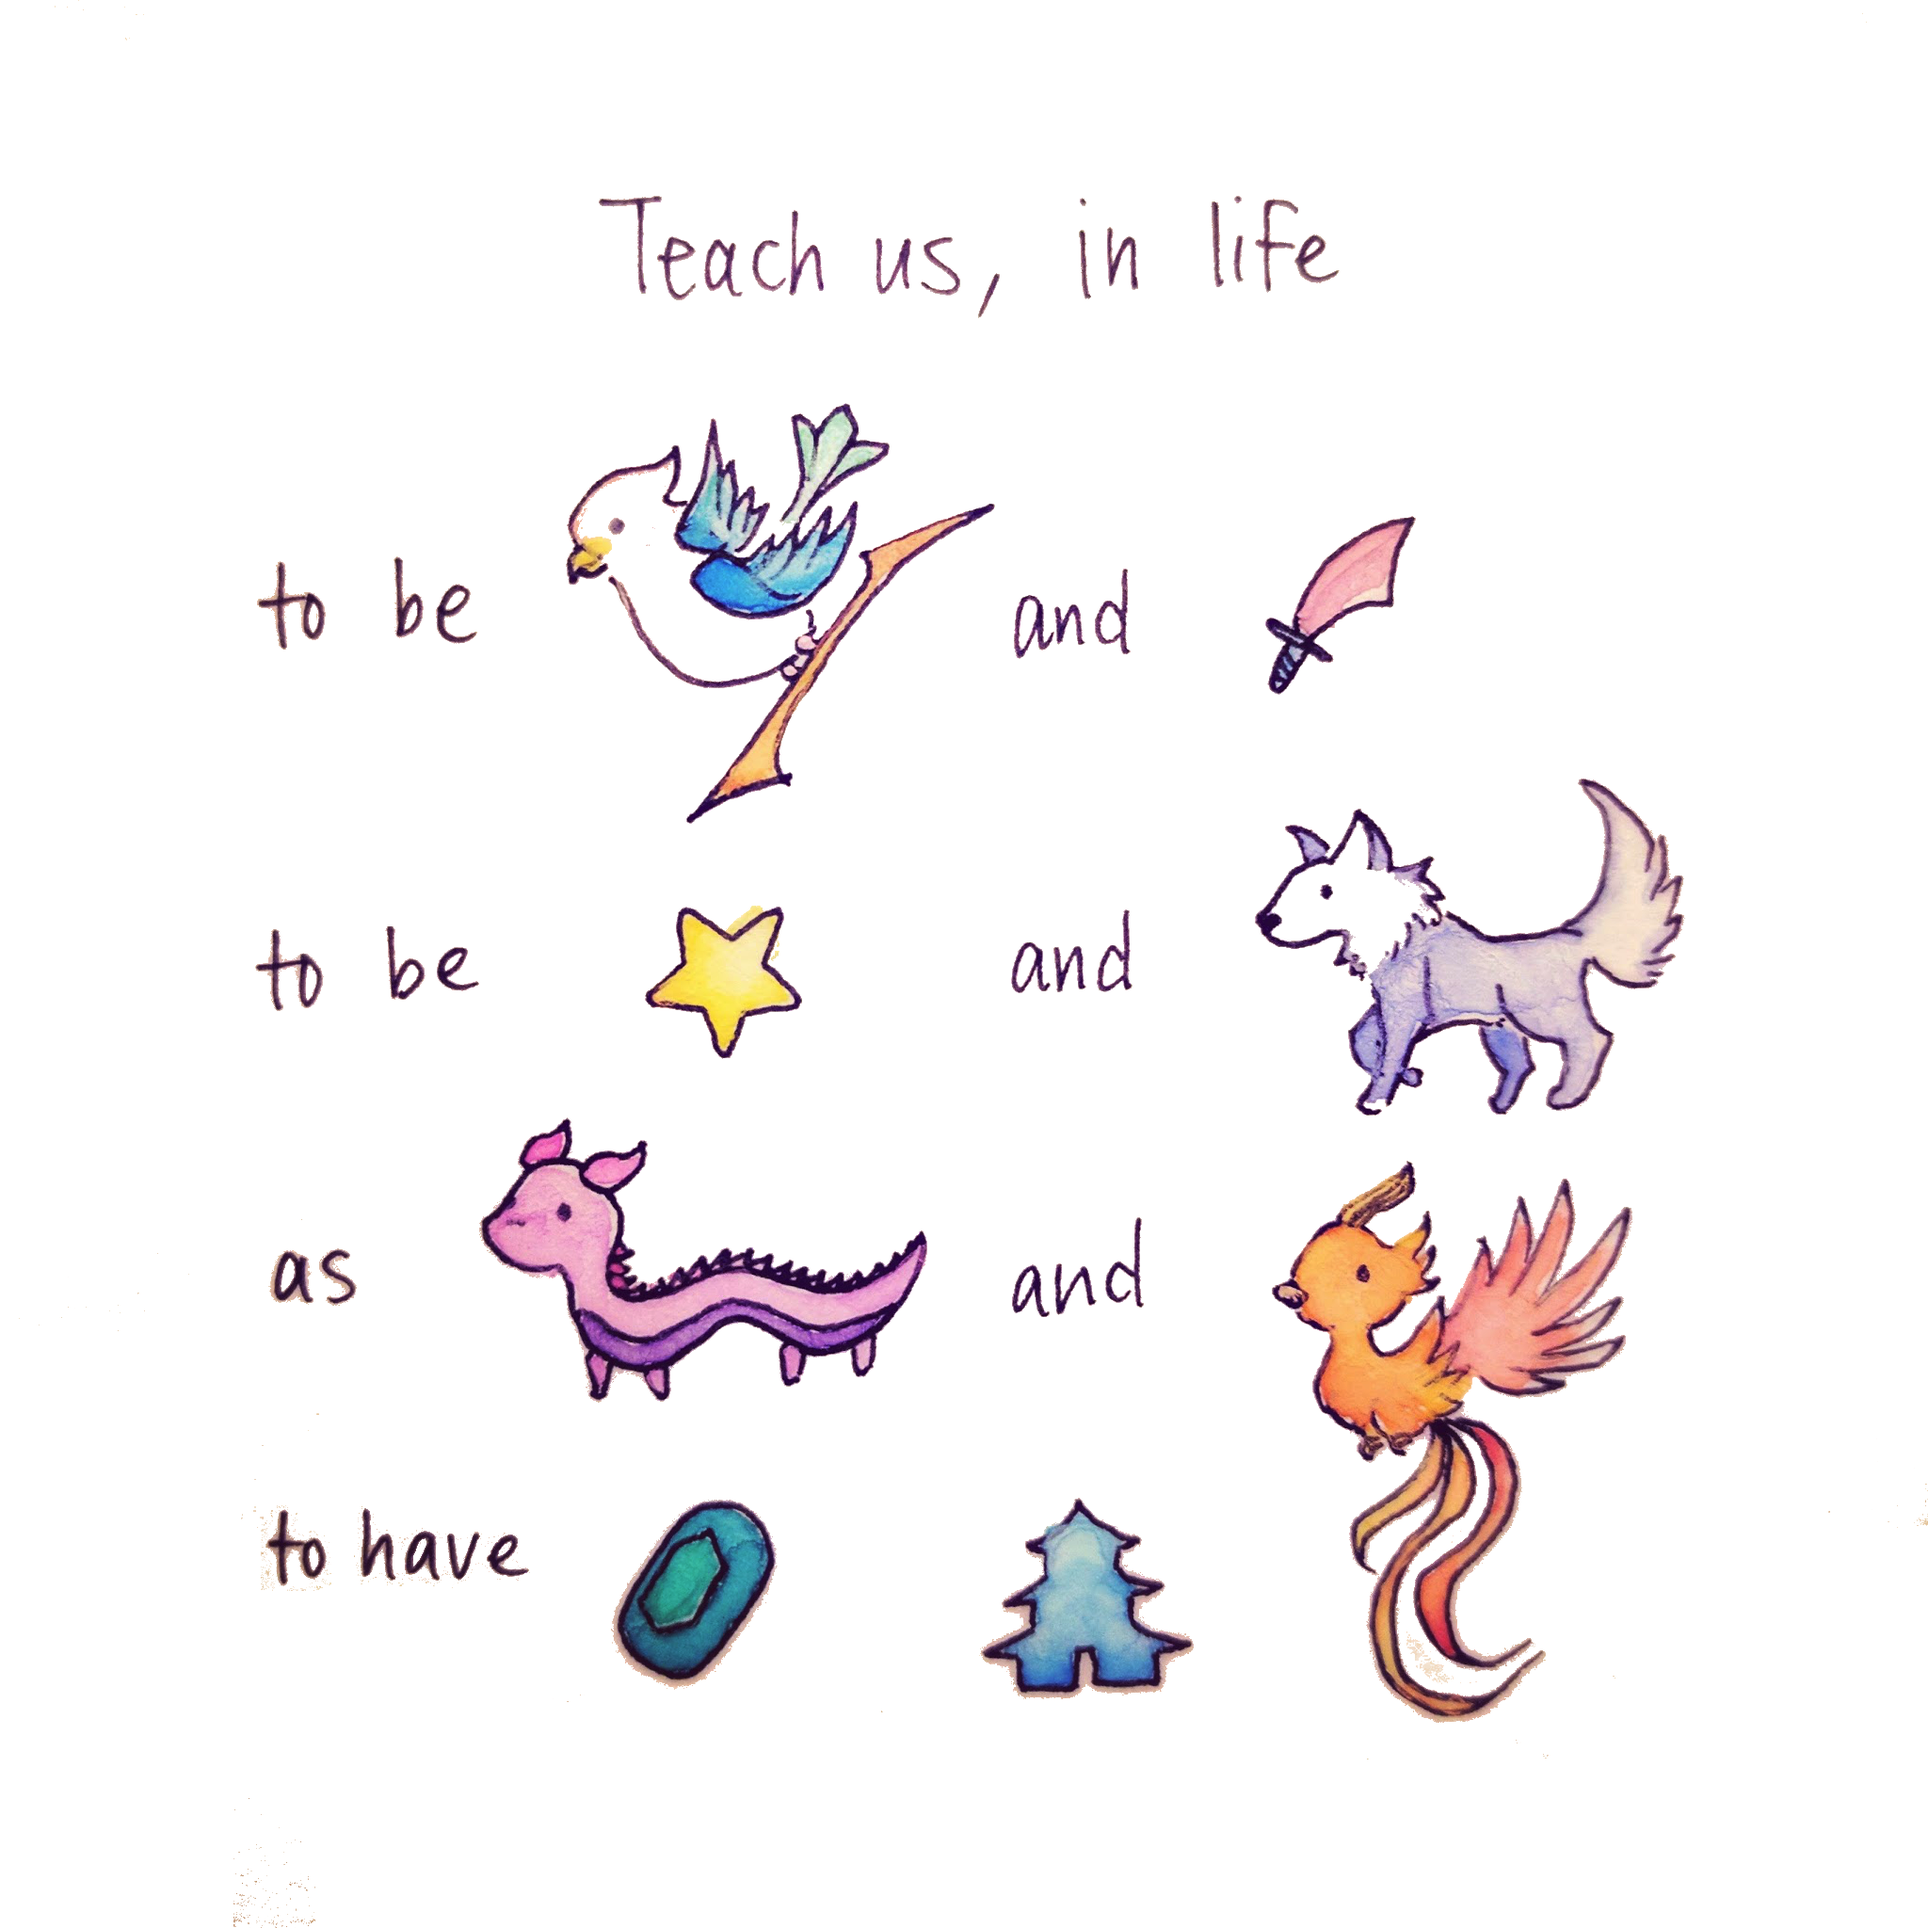
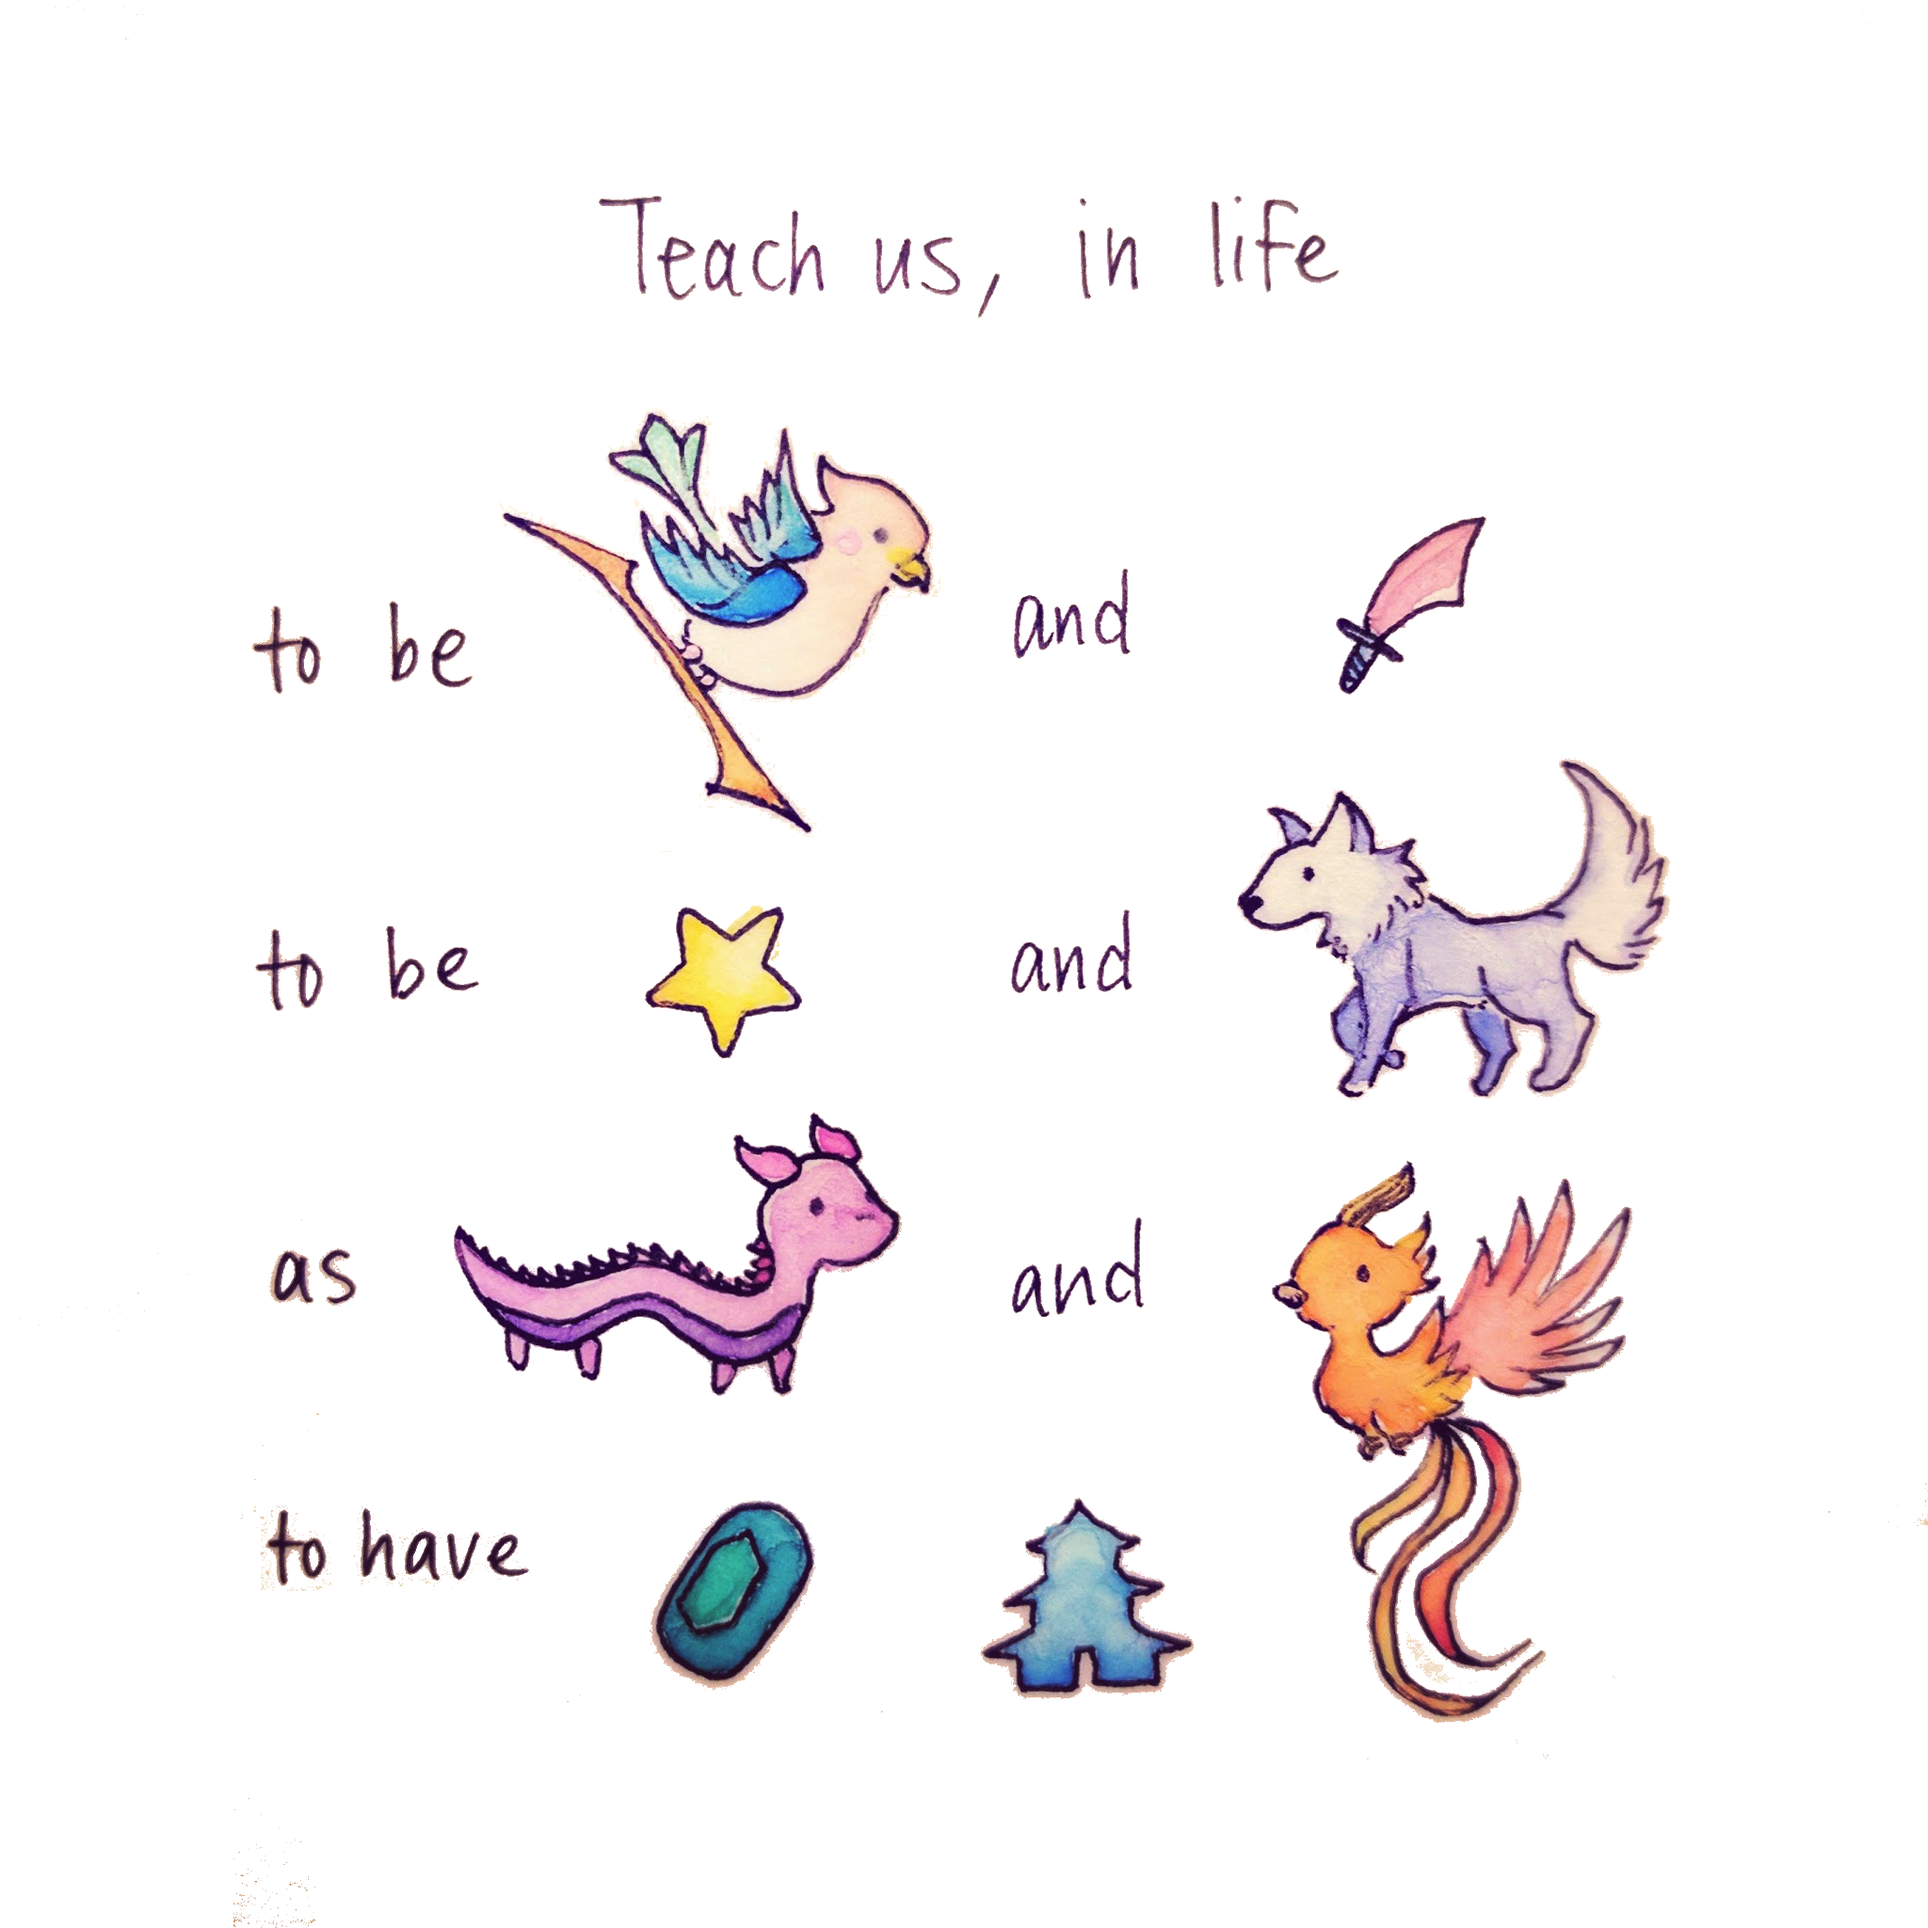
paintbrush pixlr ing

diff --git a/poemart.html b/poemart.html
@@ -16,7 +16,7 @@
       </span>
     </h1>
     
-        <img style="width: 800; height: auto;" src="teachus.png" class="icon"/>
+        <img style="width: 800; height: auto;" src="teachus_parchment.png" class="icon"/>
         <!--img style="width: 800; height: auto; border: solid #ccc;" src="teachus_white.png" class="icon"/-->
             
 
